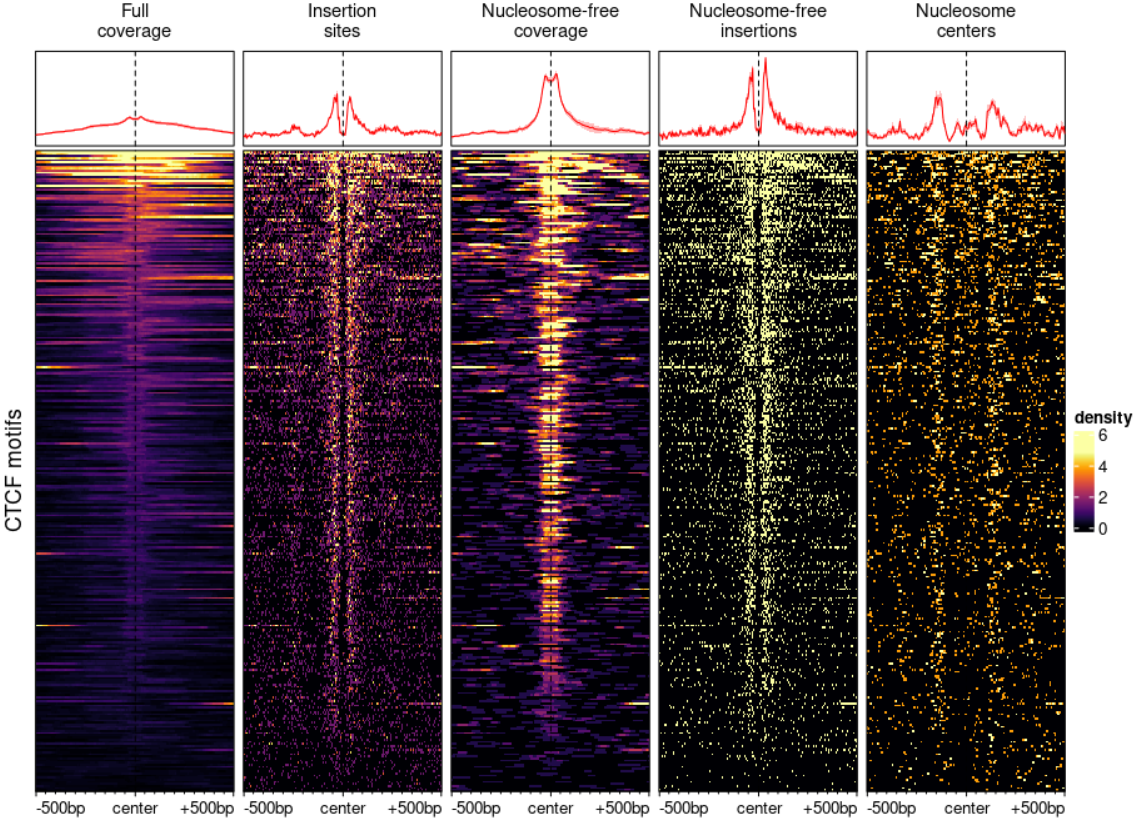
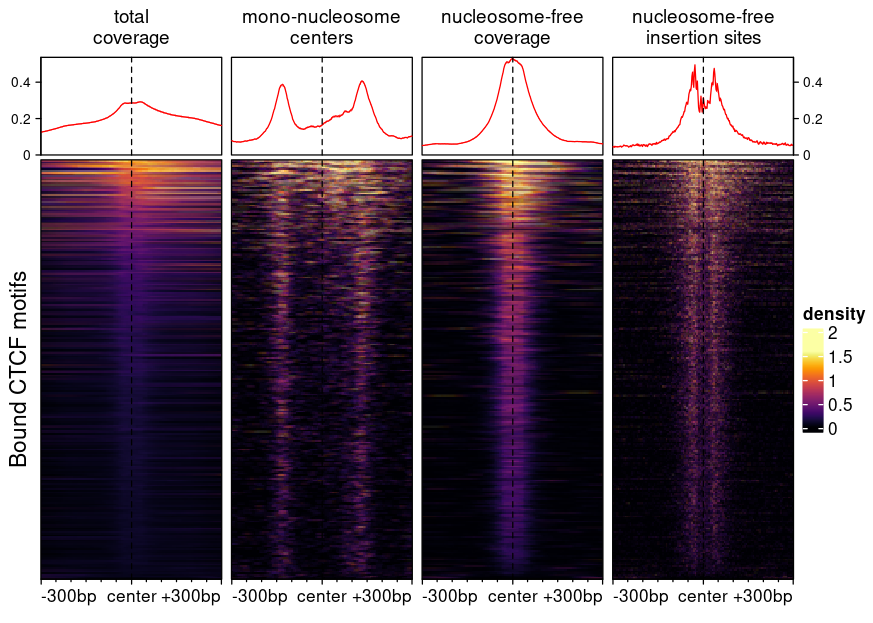
updated bw fig and doc

diff --git a/README.md b/README.md
@@ -340,16 +340,18 @@ fragments differently. For example, the heatmap of insertion sites of
 nucleosome-free fragments was based on a bigwig file generated using:
 
 ```r
-bam2bw("aligned.bam", output_bw="NF_cuts.bw", paired=TRUE, binWidth=1L, 
-       minFragLength=30, maxFragLength=115, type="ends")
+bam2bw("aligned.bam", output_bw="NF_cuts.bw", paired=TRUE, `shift=c(4L,-5L), 
+       binWidth=1L, minFragLength=25, maxFragLength=120, type="ends"`)
 ```
 
 The arguments specify that only the beginning and end of the 
-fragments (`type="ends"`) of length 30-115 (`minFragLength` and `maxFragLength`)
-should be used to compute per-bp (`binWidth=1`) coverage. Bigwig files can also 
-be generated as an enrichment over an input, allowing the use of local 
-neighborhood backgrounds (MACS-like). For more detail, see the `bam2bw` 
-vignette.
+fragments (`type="ends"`) of length 25-120 (`minFragLength` and `maxFragLength`)
+should be used to compute per-bp (`binWidth=1`) coverage. Shifts are applied to
+fragments to get to the actual site where the transposase sits.
+
+Bigwig files can also be generated as an enrichment over an input, allowing the 
+use of local neighborhood backgrounds (MACS-like). For more detail, see the 
+`bam2bw` vignette.
 
 <br/><br/>
 
